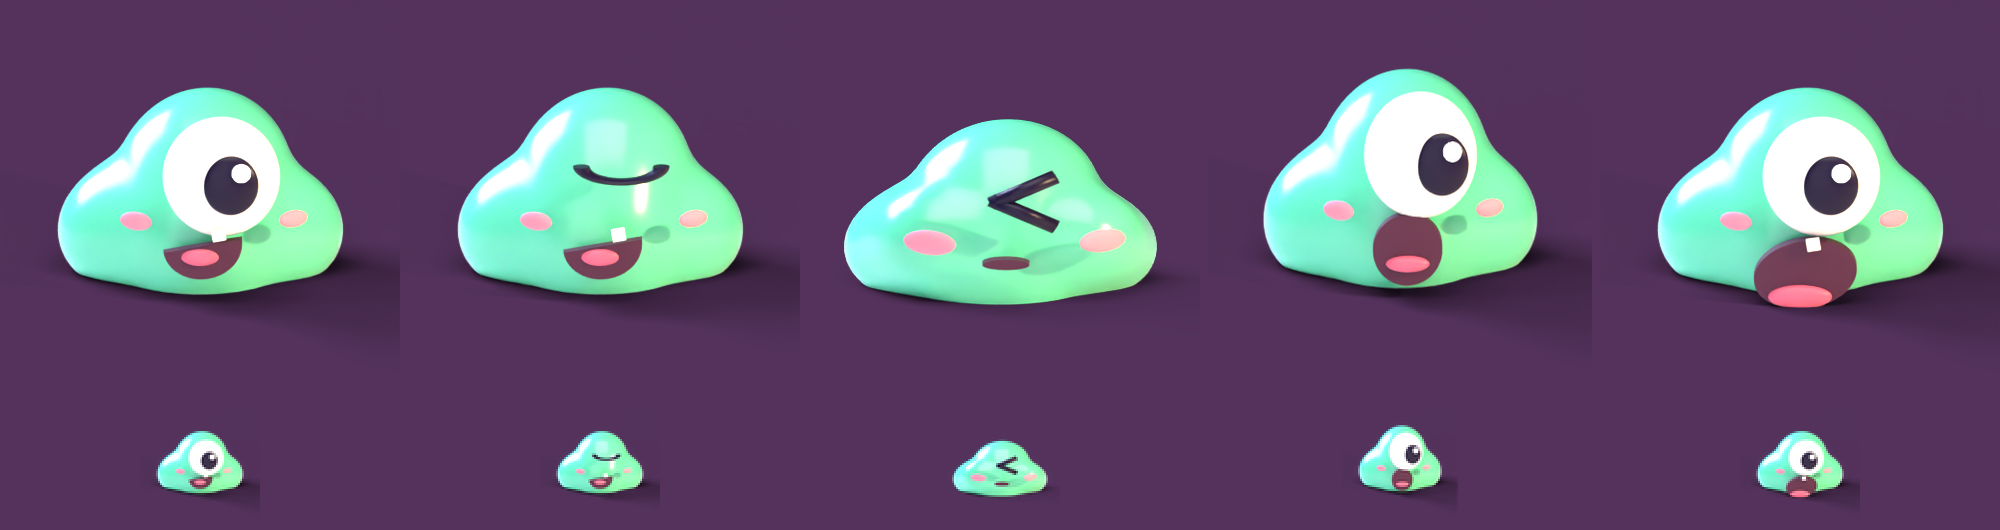
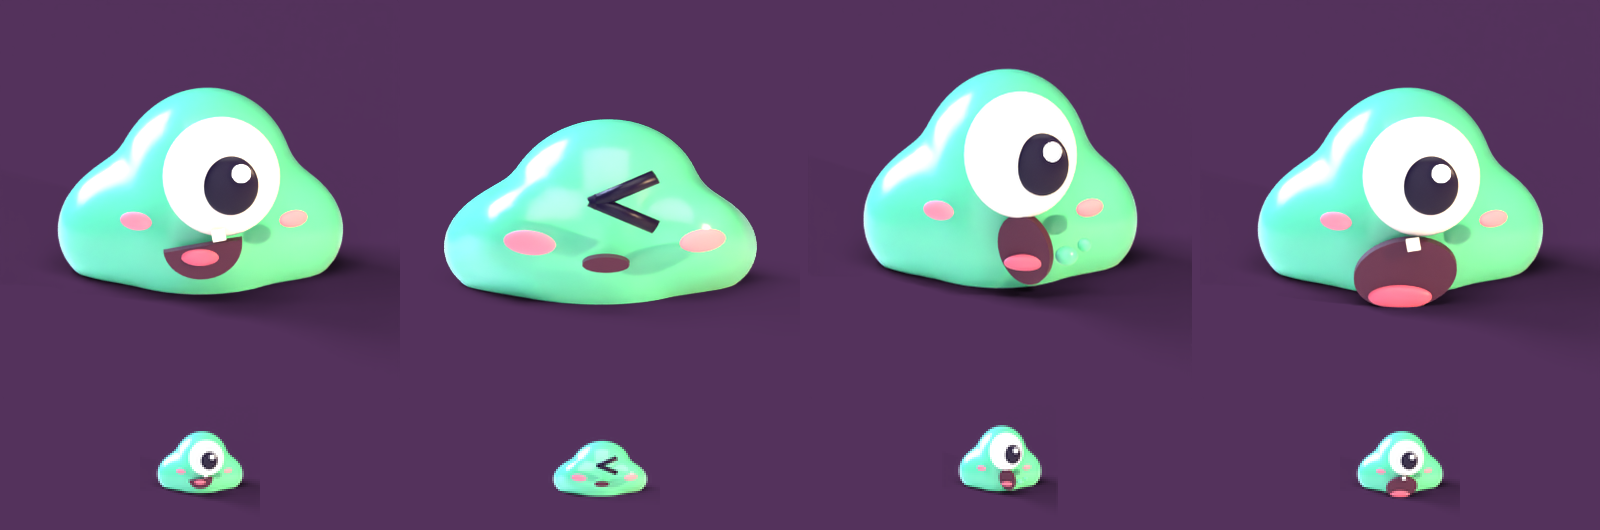
Daan: spuug getuit naar rechts met spatje, kneep-mond dikker (frisse kijker)
Claude-Session: https://claude.ai/code/session_01RMWUyh3qQjE3WDydReQdvE

diff --git a/producten/steam-hol/modellen/gloop.py b/producten/steam-hol/modellen/gloop.py
@@ -104,11 +104,14 @@ if _stand == "hap":
 if _stand == "spuug":
     # kleine open O, helemaal binnen het lijf (de O van hap hangt onder de onderrand)
     mond.modifiers.remove(m1)
-    mond.location = (0.06, -1.0, 0.36); mond.scale = (1.05, 1.0, 0.82)
+    mond.location = (0.2, -1.0, 0.36); mond.scale = (0.78, 1.0, 0.82)
+    mond.rotation_euler = (math.radians(90), math.radians(-25), math.radians(-18))   # getuit, wijst naar rechts (de laars na)
+    bol("spat", (0.52, -0.98, 0.3), (0.09, 0.07, 0.07), lijfmat)   # klein slijmdruppeltje bij de mondhoek
+    bol("spat2", (0.66, -0.9, 0.36), (0.055, 0.05, 0.05), lijfmat)
 if _stand == "kneep":
     # mond dicht: een kort donker streepje, iets scheef, de lippen op elkaar
     mond.modifiers.remove(m1); mond.rotation_euler = (math.radians(90), 0, 0)
-    mond.location = (0.04, -1.04, 0.44); mond.scale = (0.62, 0.17, 1.0)   # lokaal y is na het kantelen de hoogte
+    mond.location = (0.04, -1.04, 0.44); mond.scale = (0.62, 0.26, 1.0)   # lokaal y is na het kantelen de hoogte
 _tong = bol("tong", (0.0, -1.03 if _stand != "hap" else -1.07, 0.37 if _stand != "hap" else 0.07), (0.15, 0.06, 0.07) if _stand != "hap" else (0.24, 0.07, 0.09), g.mat("tong", "tong", rough=0.4))
 bpy.ops.mesh.primitive_cube_add(size=1, location=(0.14, -1.12, 0.565) if _stand != "hap" else (0.10, -1.12, 0.49)); tand = bpy.context.object
 tand.scale = (0.10, 0.05, 0.09); tand.rotation_euler = (0, math.radians(-10), 0)
@@ -117,7 +120,7 @@ tand.data.materials.append(g.mat("tand", "tand", rough=0.3))
 if _stand == "kneep":   # mond dicht: geen tong en geen tand (lazen als vuil, controleur 15 nov)
     _tong.hide_render = True; tand.hide_render = True
 if _stand == "spuug":   # tong achter in de O, tand weg (de laars komt eruit)
-    _tong.location = (0.06, -1.05, 0.26); _tong.scale = (0.17, 0.06, 0.06); tand.hide_render = True
+    _tong.location = (0.2, -1.05, 0.27); _tong.scale = (0.17, 0.06, 0.06); tand.hide_render = True
 # blosjes
 blos = g.mat("blos", "blos", rough=0.7)
 bol("blos_l", (-0.48, -0.93, 0.62), (0.13, 0.04, 0.07), blos, rot=(0, 0, math.radians(-25)))
